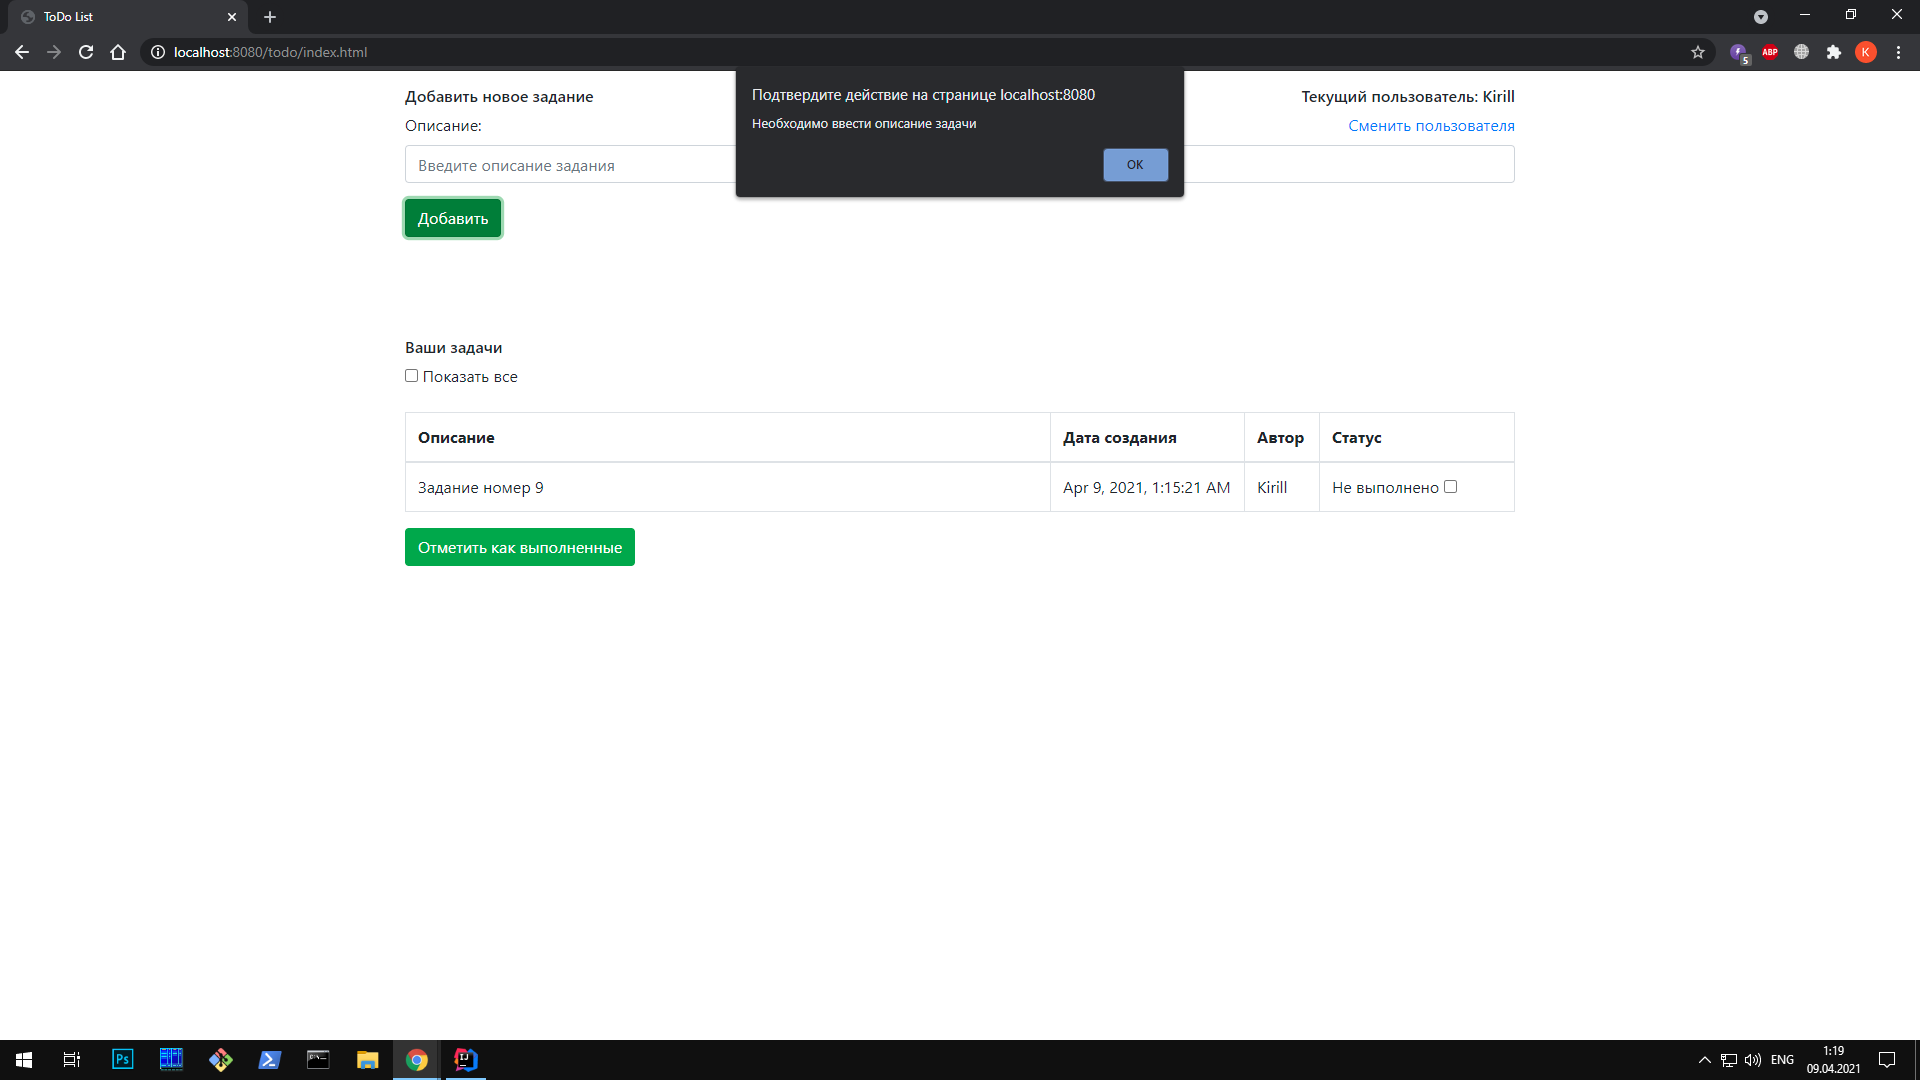
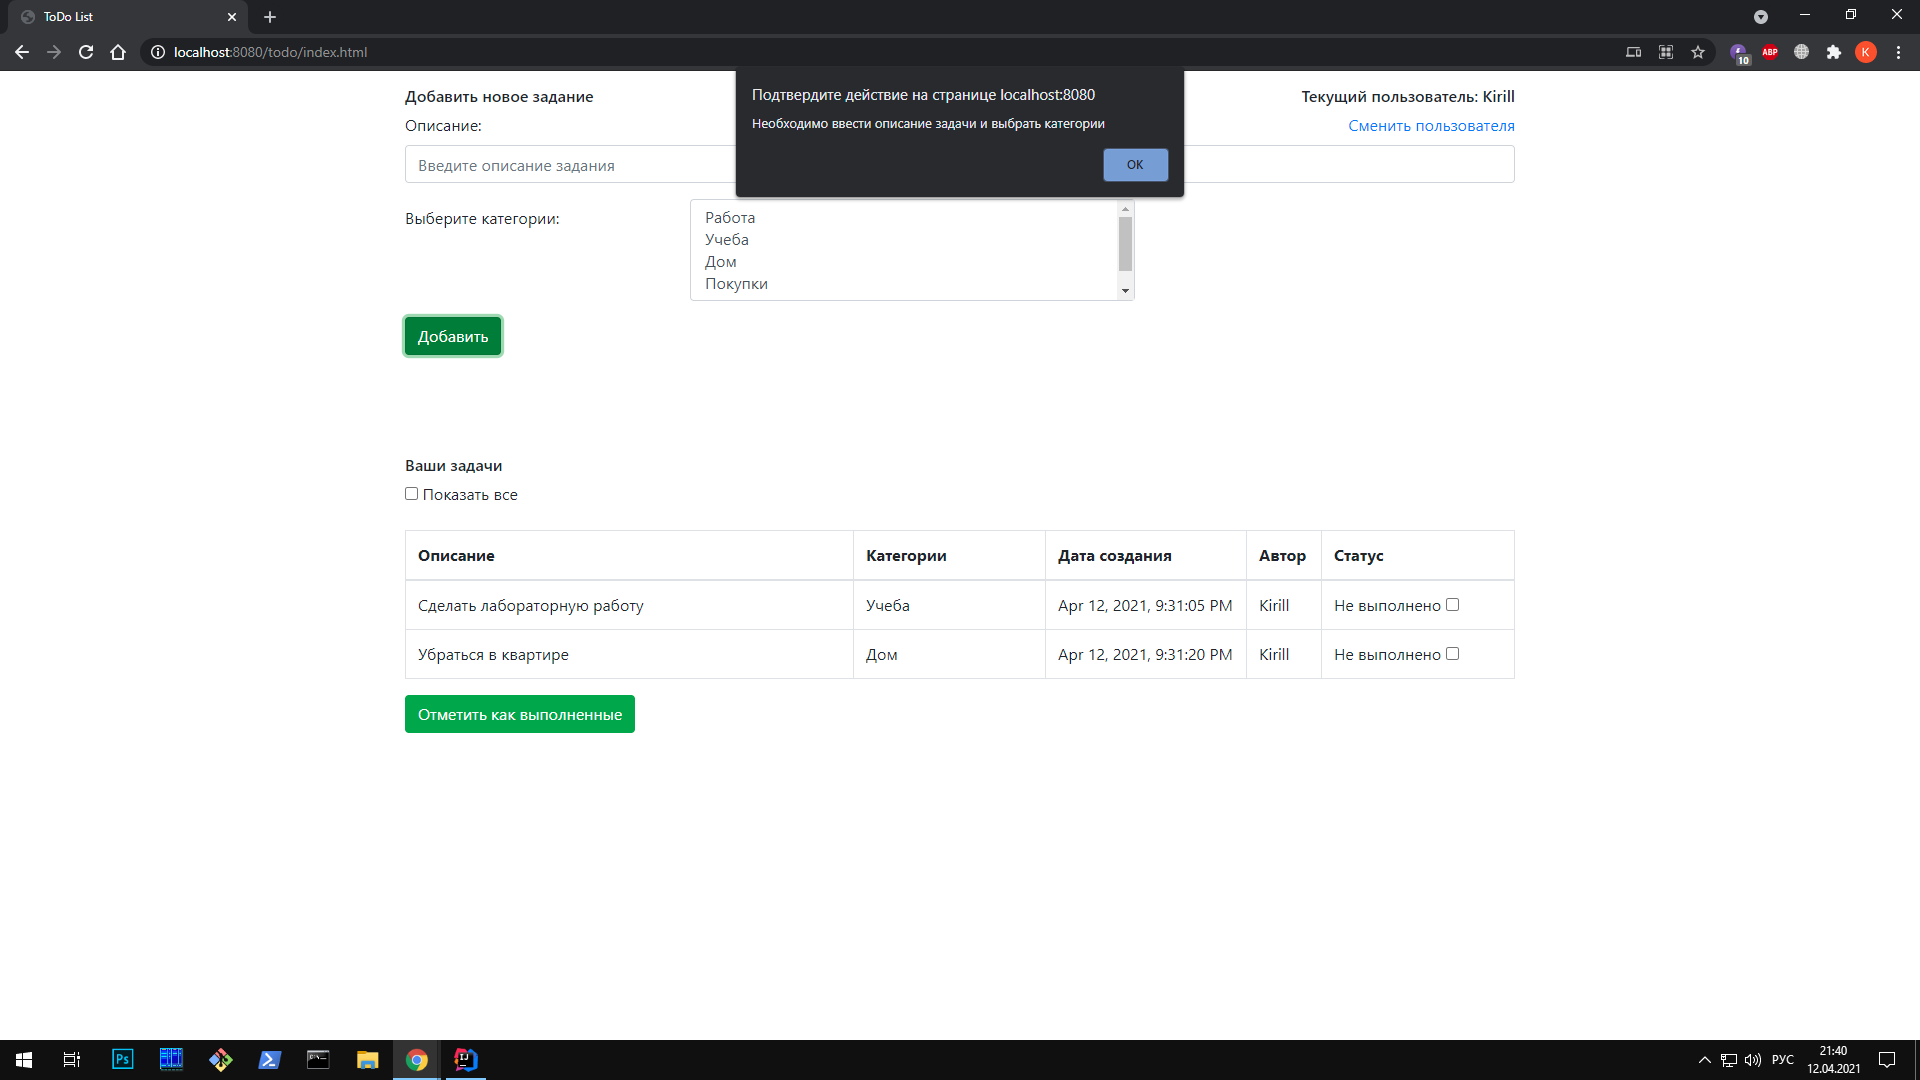
4. Категории в TODO List [#492586]

diff --git a/src/main/webapp/index.html b/src/main/webapp/index.html
@@ -10,6 +10,11 @@
     <script src="https://maxcdn.bootstrapcdn.com/bootstrap/3.3.7/js/bootstrap.min.js"></script>
     <script>
         $(document).ready(function () {
+            loadItems()
+            loadCategories()
+        })
+
+        function loadItems() {
             const req = $.ajax({
                 type: "GET",
                 url: "http://localhost:8080/todo/load",
@@ -19,9 +24,14 @@
                 let items = ""
                 let user = ""
                 for (let i = 0; i < data.length; i++) {
+                    let categories = ""
+                    for (let j = 0; j < data[i]["categories"].length; j++ ) {
+                        categories += data[i]["categories"][j]["name"] + " ";
+                    }
                     if (data[i]["status"] !== "Done") {
                         items += "<tr>"
                             + "<td>" + data[i]["description"] + "</td>"
+                            + "<td>"+  categories + "</td>"
                             + "<td>" + data[i]["created"] + "</td>"
                             + "<td>" + data[i]["user"]["name"] + "</td>"
                             + "<td>" + "Не выполнено  "
@@ -35,9 +45,14 @@
                     $('#items').html(items);
                     $('input:checked:not(:disabled)').each(function () {
                         for (let i = 0; i < data.length; i++) {
+                            let categories = ""
+                            for (let j = 0; j < data[i]["categories"].length; j++ ) {
+                                categories += data[i]["categories"][j]["name"] + " ";
+                            }
                             if (data[i]["status"] === "Done") {
                                 $('#items').append("<tr style='background: #7dec4c'>"
                                     + "<td>" + data[i]["description"] + "</td>"
+                                    + "<td>"+  categories  + "</td>"
                                     + "<td>" + data[i]["created"] + "</td>"
                                     + "<td>" + data[i]["user"]["name"] + "</td>"
                                     + "<td>" + "Выполнено  "
@@ -48,15 +63,32 @@
                         }
                     });
                 });
-                $('#items').html(items);
-                $('#user').html(user);
+                $('#items').html(items)
+                $('#user').html(user)
             })
-        })
+        }
+
+        function loadCategories() {
+            const req = $.ajax({
+                type: "GET",
+                url: "http://localhost:8080/todo/categories",
+                dataType: "json"
+            })
+            req.done(function (data) {
+                let categories = ""
+                for (let i = 0; i < data.length; i++) {
+                    categories += "<option value="+data[i]["id"]+">"
+                        + data[i]["name"]
+                        + "</option>>"
+                }
+                $('#cIds').html(categories)
+            })
+        }
 
         function validate() {
             let result = true
-            if ($("#desc").val() === '') {
-                alert("Необходимо ввести описание задачи")
+            if ($("#desc").val() === '' || $("#cIds").val() == "") {
+                alert("Необходимо ввести описание задачи и выбрать категории")
                 result = false
             }
             return result
@@ -67,11 +99,11 @@
                 $.ajax({
                     method: 'POST',
                     url: 'http://localhost:8080/todo/add',
-                    data: {description: $("#desc").val()},
+                    data: {description: $("#desc").val(), categoryIds: $('#cIds').val().join(",")},
                     dataType: 'json'
                 });
+                location.reload()
             }
-            location.reload()
         }
 
         function getSelectedValues() {
@@ -117,6 +149,14 @@
             <label for="desc">Описание:</label>
             <input class="form-control" id="desc" placeholder="Введите описание задания">
         </div>
+        <div class="form-group row" >
+            <label class="col-form-label col-sm-3" for="cIds" >Выберите категории: </label>
+            <div class="col-sm-5">
+                <select class="form-control" id="cIds" multiple="multiple">
+
+                </select>
+            </div>
+        </div>
         <button type="button" class="btn btn-success" onclick="addTask()">Добавить</button>
     </form>
     <form id="tasks" style="margin-top: 100px">
@@ -127,8 +167,9 @@
         <table class="table table-bordered">
             <thead>
             <tr>
-                <th style="width: 680px;">Описание</th>
-                <th style="width: 200px">Дата создания</th>
+                <th style="width: 480px;">Описание</th>
+                <th style="width: 200px">Категории</th>
+                <th style="width: 210px">Дата создания</th>
                 <th style="width: 75px">Автор</th>
                 <th style="width: 200px">Статус</th>
             </tr>

diff --git a/src/main/java/ru/job4j/model/Item.java b/src/main/java/ru/job4j/model/Item.java
@@ -2,6 +2,8 @@ package ru.job4j.model;
 
 import javax.persistence.*;
 import java.sql.Timestamp;
+import java.util.ArrayList;
+import java.util.List;
 import java.util.Objects;
 
 @Entity
@@ -18,13 +20,18 @@ public class Item {
     @JoinColumn(name = "user_id")
     private User user;
 
-    public Item(int id, String description, Timestamp created, String status, User user) {
+    @ManyToMany(cascade = {CascadeType.PERSIST, CascadeType.MERGE}, fetch = FetchType.EAGER)
+    private List<Category> categories = new ArrayList<>();
+
+    public Item(int id, String description, Timestamp created, String status, User user, List<Category> categories) {
         this.id = id;
         this.description = description;
         this.created = created;
         this.status = status;
         this.user = user;
+        this.categories = categories;
     }
+
     public Item(String description, Timestamp created, String status, User user) {
         this.description = description;
         this.created = created;
@@ -34,6 +41,10 @@ public class Item {
 
     public Item() {
 
+    }
+
+    public void addCategory(Category category) {
+        this.categories.add(category);
     }
 
     public int getId() {
@@ -74,6 +85,14 @@ public class Item {
 
     public void setUser(User user) {
         this.user = user;
+    }
+
+    public List<Category> getCategories() {
+        return categories;
+    }
+
+    public void setCategories(List<Category> categories) {
+        this.categories = categories;
     }
 
     @Override

diff --git a/src/main/java/ru/job4j/model/Category.java b/src/main/java/ru/job4j/model/Category.java
@@ -1,0 +1,63 @@
+package ru.job4j.model;
+
+import javax.persistence.*;
+import java.util.Objects;
+
+@Entity
+@Table(name = "categories")
+public class Category {
+    @Id
+    @GeneratedValue(strategy = GenerationType.IDENTITY)
+    private int id;
+    private String name;
+
+    public Category() {
+
+    }
+
+    public Category(int id, String name) {
+        this.id = id;
+        this.name = name;
+    }
+
+    public int getId() {
+        return id;
+    }
+
+    public void setId(int id) {
+        this.id = id;
+    }
+
+    public String getName() {
+        return name;
+    }
+
+    public void setName(String name) {
+        this.name = name;
+    }
+
+    @Override
+    public boolean equals(Object o) {
+        if (this == o) {
+            return true;
+        }
+        if (o == null || getClass() != o.getClass()) {
+            return false;
+        }
+        Category category = (Category) o;
+        return id == category.id && Objects.equals(name, category.name);
+    }
+
+    @Override
+    public int hashCode() {
+        return Objects.hash(id, name);
+    }
+
+    @Override
+    public String toString() {
+        return "Category{"
+                + "id=" + id
+                + ", name='" + name + '\''
+                + '}';
+    }
+}

diff --git a/src/main/java/ru/job4j/store/HbmStore.java b/src/main/java/ru/job4j/store/HbmStore.java
@@ -8,6 +8,7 @@ import org.hibernate.boot.registry.StandardServiceRegistry;
 import org.hibernate.boot.registry.StandardServiceRegistryBuilder;
 import org.slf4j.Logger;
 import org.slf4j.LoggerFactory;
+import ru.job4j.model.Category;
 import ru.job4j.model.Item;
 import ru.job4j.model.User;
 
@@ -35,8 +36,15 @@ public class HbmStore implements Store {
     }
 
     @Override
-    public void save(Item item) {
-        transaction(session -> session.save(item));
+    public void save(Item item, String[] cIds) {
+        transaction(session -> {
+            for (String id : cIds) {
+                Category  category = session.find(Category.class, Integer.parseInt(id));
+                item.addCategory(category);
+            }
+            session.save(item);
+            return null;
+        });
     }
 
     @Override
@@ -64,6 +72,14 @@ public class HbmStore implements Store {
                     return query.getResultList();
                 }
         );
+    }
+
+    @Override
+    public Collection<Category> getAllCategories() {
+        return (Collection<Category>) transaction(session -> {
+            final Query query = session.createQuery("from Category");
+            return query.getResultList();
+        });
     }
 
     @Override

diff --git a/src/main/java/ru/job4j/servlet/CategoriesServlet.java b/src/main/java/ru/job4j/servlet/CategoriesServlet.java
@@ -1,0 +1,25 @@
+package ru.job4j.servlet;
+
+import ru.job4j.model.Category;
+import ru.job4j.store.HbmStore;
+
+import com.google.gson.Gson;
+import com.google.gson.GsonBuilder;
+import javax.servlet.ServletException;
+import javax.servlet.http.HttpServlet;
+import javax.servlet.http.HttpServletRequest;
+import javax.servlet.http.HttpServletResponse;
+import java.io.IOException;
+import java.util.Collection;
+
+public class CategoriesServlet extends HttpServlet {
+    @Override
+    protected void doGet(HttpServletRequest req, HttpServletResponse resp) throws ServletException, IOException {
+        Collection<Category> allCategories = HbmStore.instOf().getAllCategories();
+        final Gson gson = new GsonBuilder().create();
+        String categoriesToJson = gson.toJson(allCategories);
+        resp.setCharacterEncoding("UTF-8");
+        resp.setContentType("json");
+        resp.getWriter().write(categoriesToJson);
+    }
+}

diff --git a/src/main/java/ru/job4j/servlet/AddServlet.java b/src/main/java/ru/job4j/servlet/AddServlet.java
@@ -16,6 +16,7 @@ public class AddServlet extends HttpServlet {
     @Override
     protected void doPost(HttpServletRequest req, HttpServletResponse resp) throws ServletException, IOException {
         req.setCharacterEncoding("UTF-8");
+        String[] categoriesIds = req.getParameter("categoryIds").split(",");
         HttpSession session = req.getSession();
         Item item = new Item(
                 req.getParameter("description"),
@@ -23,6 +24,6 @@ public class AddServlet extends HttpServlet {
                 "Not done",
                 (User) session.getAttribute("user")
         );
-        HbmStore.instOf().save(item);
+        HbmStore.instOf().save(item, categoriesIds);
     }
 }

diff --git a/src/main/java/ru/job4j/servlet/LoadServlet.java b/src/main/java/ru/job4j/servlet/LoadServlet.java
@@ -2,6 +2,7 @@ package ru.job4j.servlet;
 
 import com.google.gson.Gson;
 import com.google.gson.GsonBuilder;
+import ru.job4j.model.Category;
 import ru.job4j.model.Item;
 import ru.job4j.model.User;
 import ru.job4j.store.HbmStore;
@@ -14,7 +15,7 @@ import javax.servlet.http.HttpSession;
 import java.io.IOException;
 import java.util.Collection;
 
-public class LoadItemsServlet extends HttpServlet {
+public class LoadServlet extends HttpServlet {
     @Override
     protected void doGet(HttpServletRequest req, HttpServletResponse resp) throws ServletException, IOException {
         HttpSession session = req.getSession();

diff --git a/src/main/java/ru/job4j/store/Store.java b/src/main/java/ru/job4j/store/Store.java
@@ -1,5 +1,6 @@
 package ru.job4j.store;
 
+import ru.job4j.model.Category;
 import ru.job4j.model.Item;
 import ru.job4j.model.User;
 
@@ -7,13 +8,15 @@ import java.util.Collection;
 import java.util.Optional;
 
 public interface Store {
-    void save(Item item);
+    void save(Item item, String[] categoriesIds);
 
     void save(User user);
 
     void update(int id);
 
     Collection<Item> findAllItemsForUser(User user);
+
+    Collection<Category> getAllCategories();
 
     Optional<User> findByEmail(String email);
 }

diff --git a/README.md b/README.md
@@ -27,7 +27,7 @@
 ![ScreenShot](images/RegInvalidInput.png)
 ### Основаня страница после логина
 ![ScreenShot](images/MainPage.png)
-### Необходимо ввести описание задачи
+### Необходимо ввести описание задачи и выбрать категории
 ![ScreenShot](images/AddAlert.png)
 ### Добавим новую задачу
 ![ScreenShot](images/AddTask.png)
